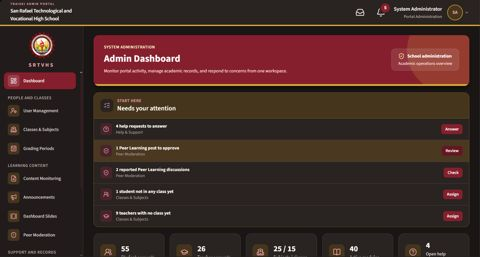
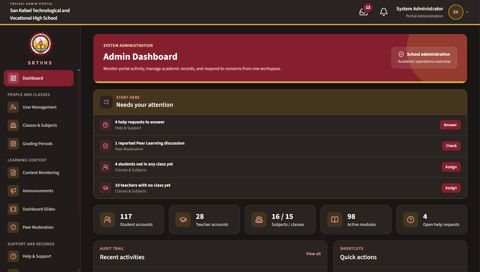
Use clearer admin screenshots in the TraiSki pop-up
Replaces the admin dashboard and adds account creation, class and
subject management, reports (teacher names blurred) and dashboard
slides. The current thumbnail now stays in view as you move through
the eleven screenshots.

diff --git a/src/components/ProjectDetails.jsx b/src/components/ProjectDetails.jsx
@@ -6,6 +6,7 @@ import { ArrowUpRight, ChevronLeft, ChevronRight, X } from 'lucide-react'
 export default function ProjectDetails({ project, onClose }) {
   const [index, setIndex] = useState(0)
   const closeRef = useRef(null)
+  const thumbsRef = useRef(null)
   const shots = project?.screenshots || []
   const count = shots.length
   const go = (step) => setIndex((i) => (i + step + count) % count)
@@ -28,6 +29,17 @@ export default function ProjectDetails({ project, onClose }) {
       prev?.focus?.()
     }
   }, [project, onClose, count])
+
+  // Keep the current thumbnail in view when there are more than fit in the row
+  useEffect(() => {
+    const row = thumbsRef.current
+    const thumb = row?.children[index]
+    if (!thumb) return
+    const left = thumb.offsetLeft - row.offsetLeft
+    if (left < row.scrollLeft) row.scrollTo({ left: left - 8, behavior: 'smooth' })
+    else if (left + thumb.offsetWidth > row.scrollLeft + row.clientWidth)
+      row.scrollTo({ left: left + thumb.offsetWidth - row.clientWidth + 8, behavior: 'smooth' })
+  }, [index])
 
   if (!project) return null
   const shot = shots[index]
@@ -103,7 +115,7 @@ export default function ProjectDetails({ project, onClose }) {
             <figcaption className="mt-3 text-center text-sm text-soft" aria-live="polite">
               {shot.caption} <span className="text-muted">· {index + 1} of {count}</span>
             </figcaption>
-            <div className="mt-3 flex gap-2 overflow-x-auto pb-1 sm:justify-center">
+            <div ref={thumbsRef} className="mx-auto mt-3 flex w-fit max-w-full gap-2 overflow-x-auto pb-1">
               {shots.map((s, i) => (
                 <button
                   key={s.name}

diff --git a/src/data/profile.js b/src/data/profile.js
@@ -89,7 +89,11 @@ export const projects = [
       { name: 'student-assignments', caption: 'Assignments with start and due dates and scores' },
       { name: 'teacher-dashboard', caption: 'Teacher dashboard with classes and recent submissions' },
       { name: 'teacher-gradebook', caption: 'Gradebook with class stats, Excel export and printing' },
-      { name: 'admin-dashboard', caption: 'Admin dashboard: what needs attention across the school' },
+      { name: 'admin-dashboard', caption: 'Admin dashboard: what needs attention, plus school-wide numbers' },
+      { name: 'admin-create-account', caption: 'Creating a student or teacher account' },
+      { name: 'admin-classes', caption: 'Sections, subjects and enrollment in one place' },
+      { name: 'admin-reports', caption: 'Reports on enrollment and how each class is doing' },
+      { name: 'admin-slides', caption: 'Dashboard slides the admin posts for school news' },
     ],
     links: {
       live: 'https://srtvhs-elms.website',
